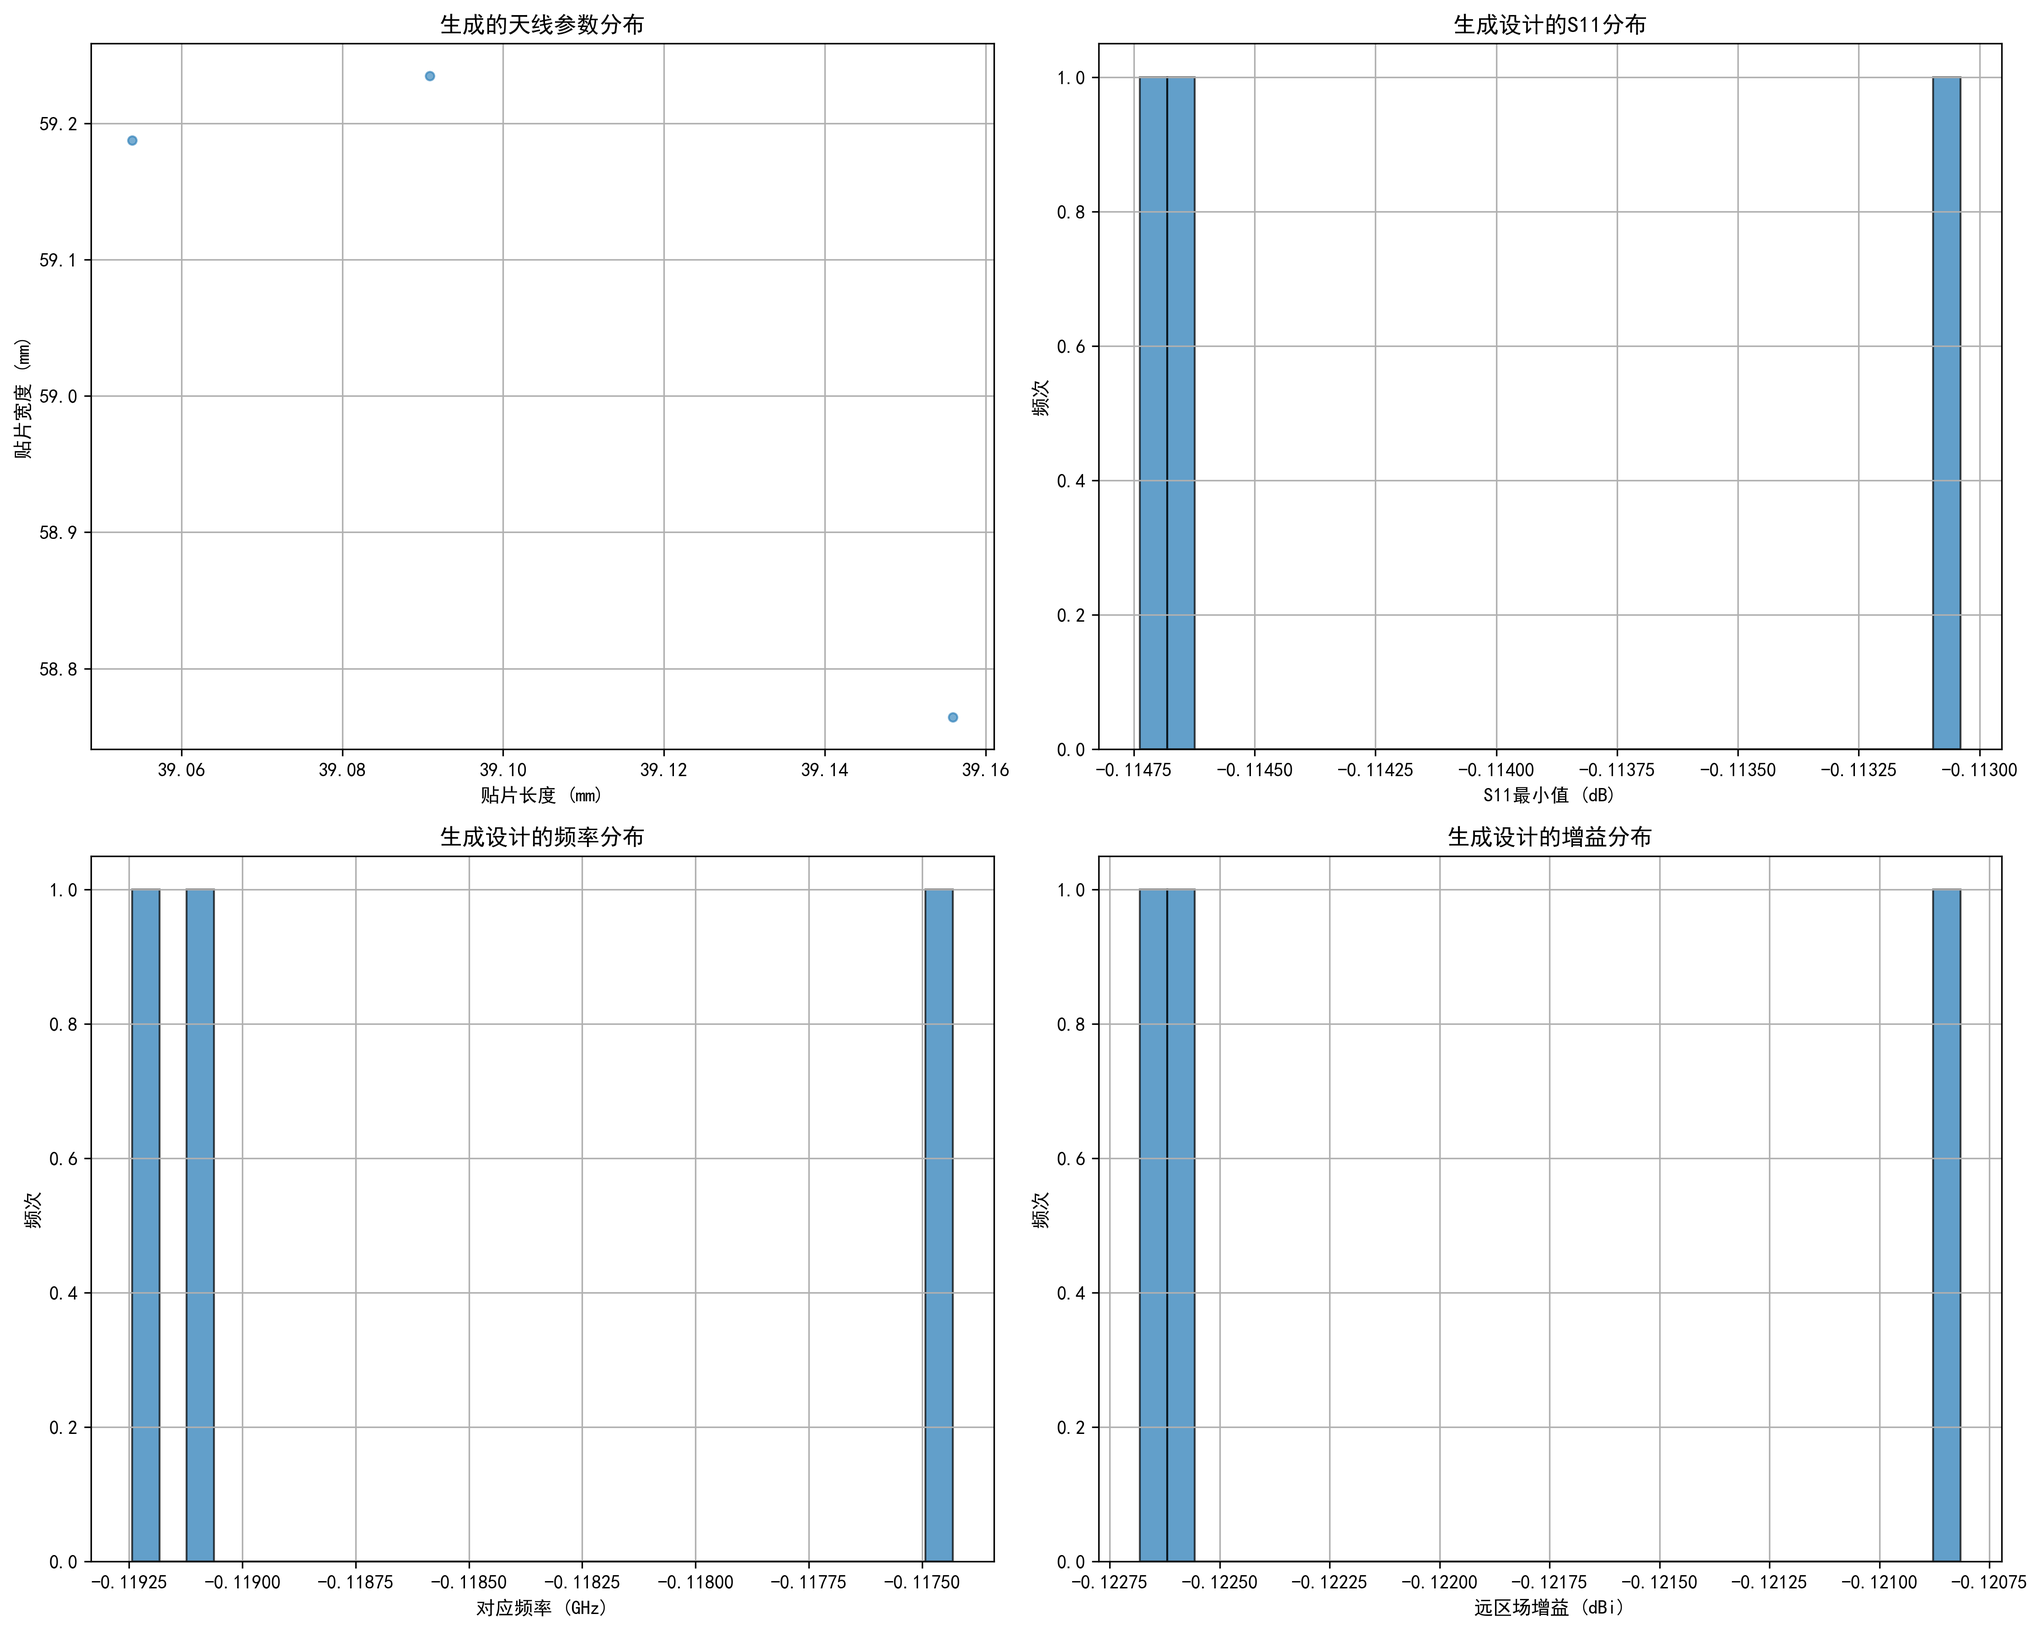
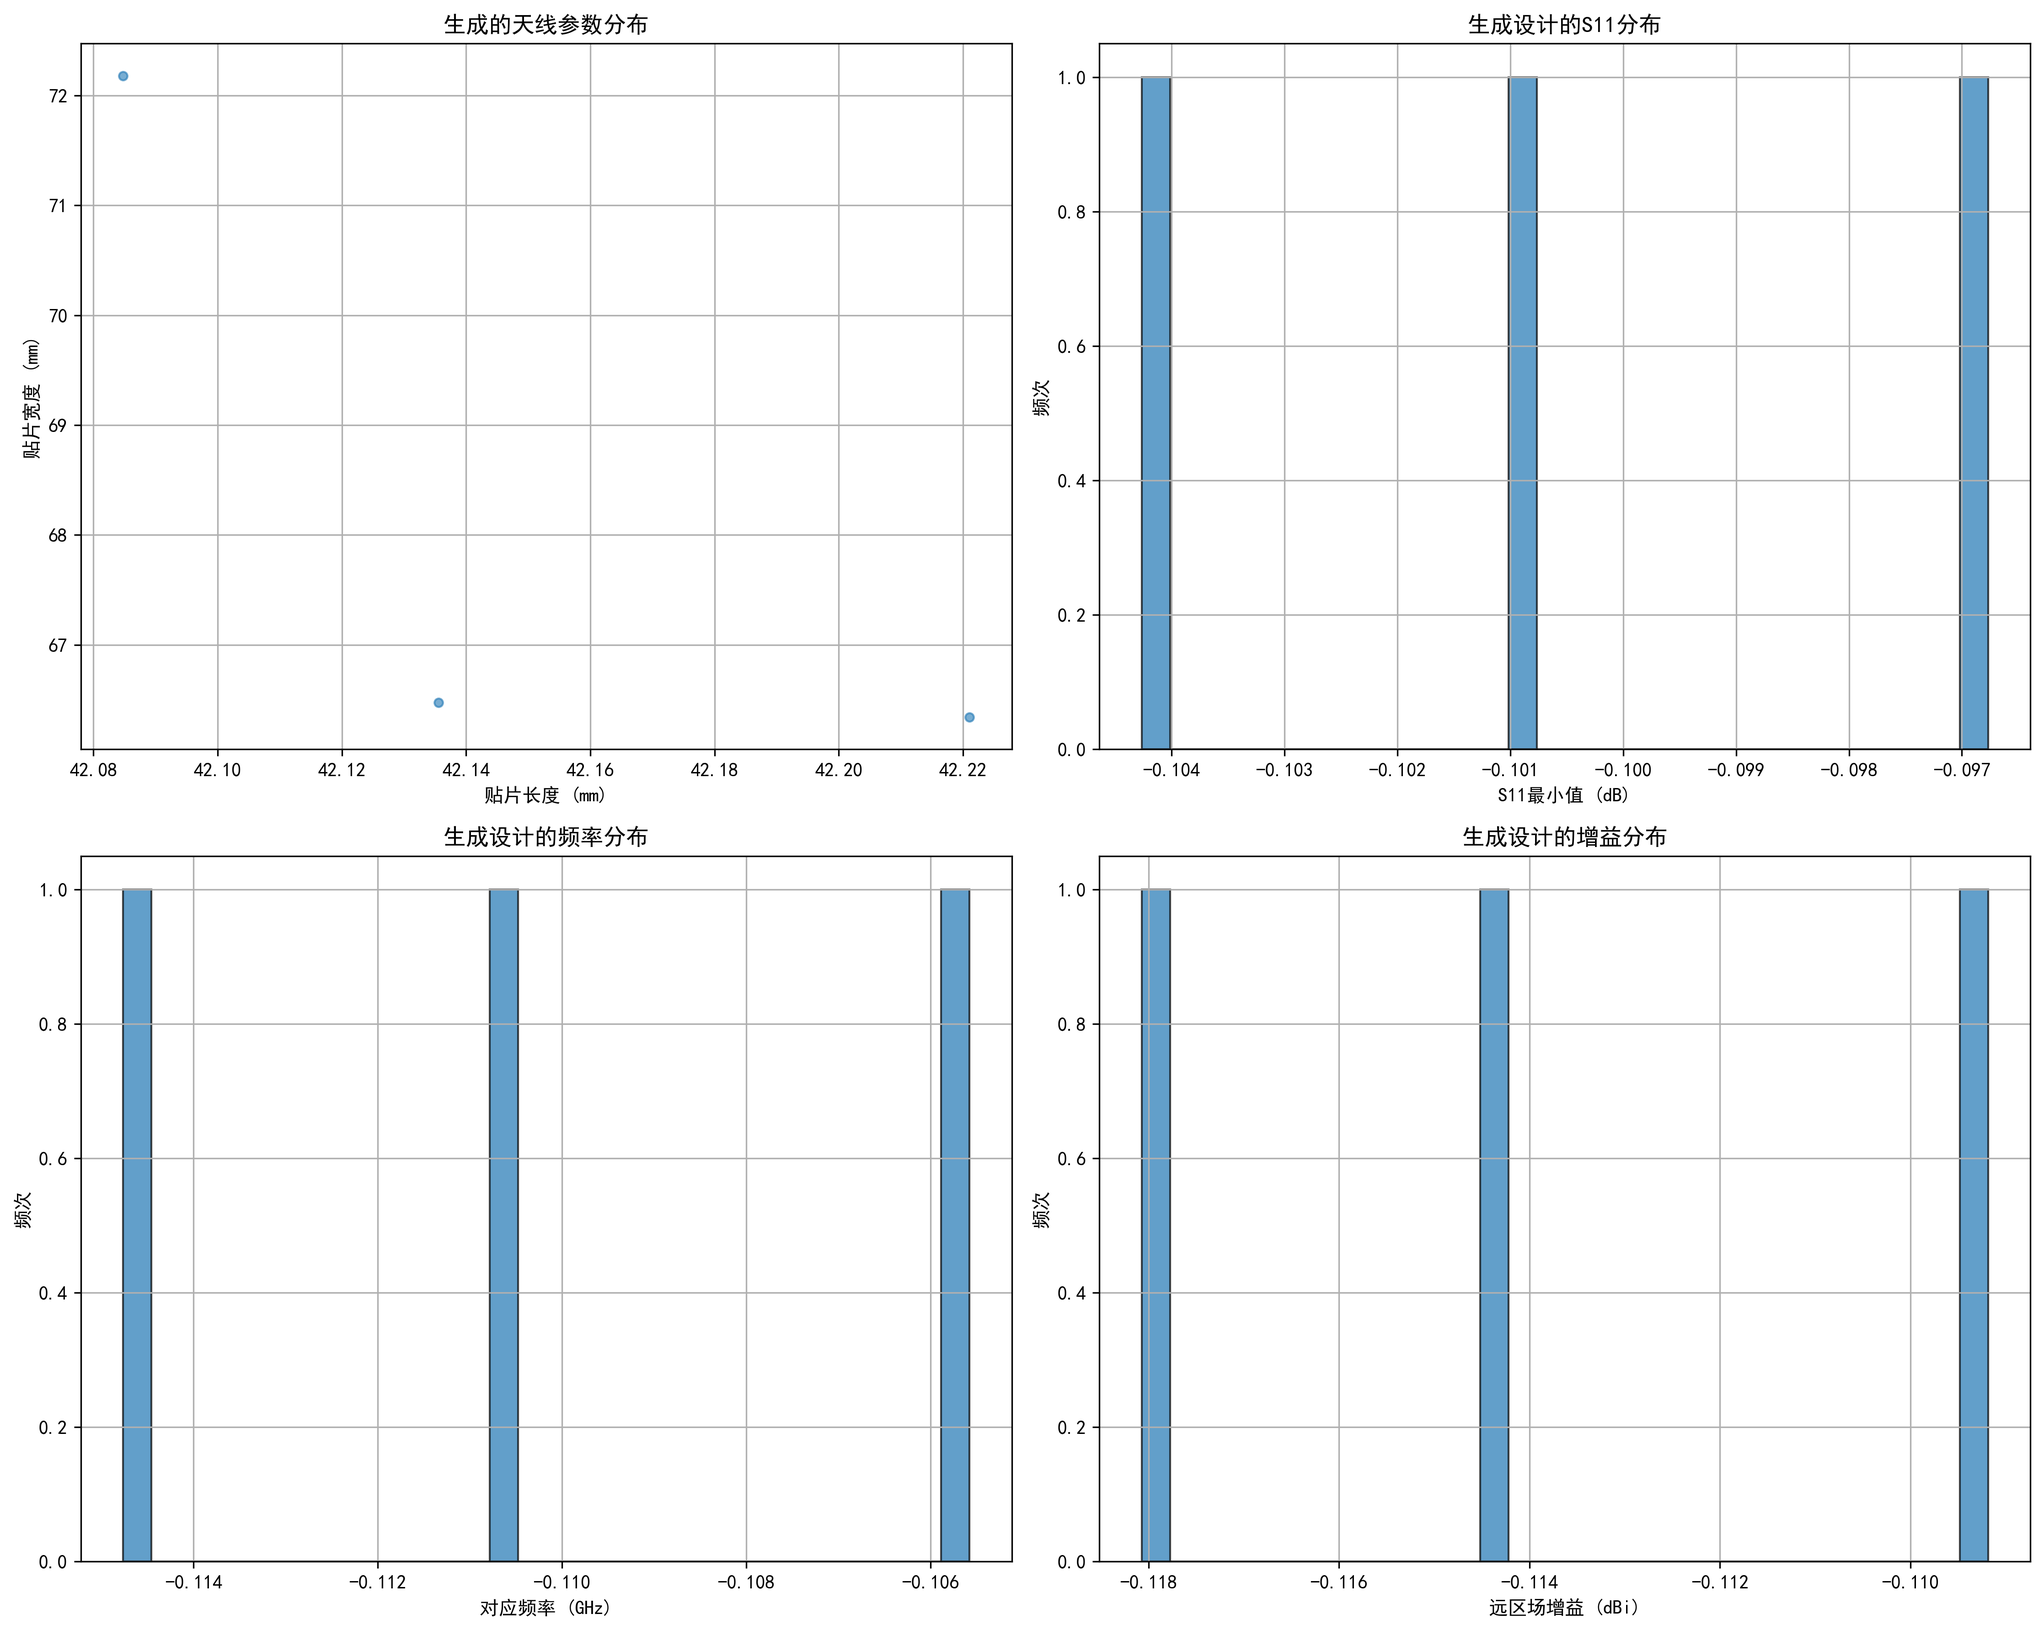
增加性能评估

diff --git a/performance_error_evalution.py b/performance_error_evalution.py
@@ -1,0 +1,273 @@
+import numpy as np
+import pandas as pd
+import os
+from sklearn.metrics import mean_squared_error, mean_absolute_error
+from skimage.metrics import structural_similarity as ssim
+
+def parse_hfss_s_parameters(data_series):
+    """
+    解析HFSS S参数数据，处理逗号分隔的频率和S参数值
+
+    Args:
+        data_series: 包含S参数数据的pandas Series
+
+    Returns:
+        numpy数组形式的S参数值
+    """
+    try:
+        s_params = []
+        for item in data_series:
+            # 处理字符串类型的逗号分隔数据
+            if isinstance(item, str) and ',' in item:
+                # 分割字符串并取S参数值（通常是第二个值）
+                parts = item.split(',')
+                if len(parts) >= 2:
+                    s_params.append(float(parts[1]))
+                else:
+                    # 如果只有一个值，直接转换
+                    s_params.append(float(parts[0]))
+            # 处理已经是数值类型的数据
+            elif isinstance(item, (int, float)):
+                s_params.append(float(item))
+            # 处理其他情况
+            else:
+                s_params.append(float(str(item)))
+
+        return np.array(s_params)
+    except Exception as e:
+        print(f"解析S参数数据时出错: {e}")
+        # 回退到基本转换方法
+        try:
+            return data_series.astype(float).values
+        except:
+            # 如果仍然失败，尝试逐个元素转换
+            result = []
+            for item in data_series:
+                try:
+                    if isinstance(item, str) and ',' in item:
+                        parts = item.split(',')
+                        result.append(float(parts[1]) if len(parts) >= 2 else float(parts[0]))
+                    else:
+                        result.append(float(item))
+                except:
+                    result.append(0.0)  # 用0.0作为默认值
+            return np.array(result)
+
+
+def evaluate_s_parameters(predicted_s_params, actual_s_params):
+    """
+    评估S参数预测准确性
+
+    Args:
+        predicted_s_params: 预测的S参数
+        actual_s_params: 实际的S参数
+
+    Returns:
+        dict: 包含各种评估指标的字典
+    """
+    if predicted_s_params is None or actual_s_params is None:
+        return {}
+
+    try:
+        # 确保长度一致
+        min_len = min(len(predicted_s_params), len(actual_s_params))
+        if min_len <= 0:
+            return {}
+
+        pred_s_trimmed = predicted_s_params[:min_len]
+        actual_s_trimmed = actual_s_params[:min_len]
+
+        # 计算各种误差指标
+        mse = mean_squared_error(actual_s_trimmed, pred_s_trimmed)
+        rmse = np.sqrt(mse)
+        mae = mean_absolute_error(actual_s_trimmed, pred_s_trimmed)
+
+        # 计算平均相对误差
+        nonzero_mask = actual_s_trimmed != 0
+        if np.sum(nonzero_mask) > 0:
+            mape = np.mean(np.abs((actual_s_trimmed[nonzero_mask] - pred_s_trimmed[nonzero_mask]) /
+                                 actual_s_trimmed[nonzero_mask])) * 100
+        else:
+            mape = 0
+
+        # 计算SSIM（需要reshape为2D）
+        results = {
+            'mse': mse,
+            'rmse': rmse,
+            'mae': mae,
+            'mape': mape
+        }
+
+        try:
+            size = int(np.sqrt(min_len))
+            if size > 0 and size*size <= min_len:
+                pred_2d = pred_s_trimmed[:size*size].reshape(size, size)
+                actual_2d = actual_s_trimmed[:size*size].reshape(size, size)
+
+                # 归一化到0-1范围
+                pred_min, pred_max = np.min(pred_2d), np.max(pred_2d)
+                actual_min, actual_max = np.min(actual_2d), np.max(actual_2d)
+
+                if pred_max > pred_min and actual_max > actual_min:
+                    pred_norm = (pred_2d - pred_min) / (pred_max - pred_min)
+                    actual_norm = (actual_2d - actual_min) / (actual_max - actual_min)
+
+                    # 计算SSIM
+                    ssim_value = ssim(pred_norm, actual_norm, data_range=1.0)
+                    results['ssim'] = ssim_value
+        except Exception as e:
+            print(f"  S参数SSIM计算警告: {e}")
+
+        return results
+    except Exception as e:
+        print(f"S参数评估出错: {e}")
+        return {}
+
+def evaluate_far_field_pattern(predicted_far_field, actual_far_field):
+    """
+    评估远区场方向图预测准确性
+
+    Args:
+        predicted_far_field: 预测的远区场数据
+        actual_far_field: 实际的远区场数据
+
+    Returns:
+        dict: 包含各种评估指标的字典
+    """
+    if predicted_far_field is None or actual_far_field is None:
+        return {}
+
+    try:
+        # 确保长度一致
+        min_len = min(len(predicted_far_field), len(actual_far_field))
+        if min_len <= 0:
+            return {}
+
+        pred_ff_trimmed = predicted_far_field[:min_len]
+        actual_ff_trimmed = actual_far_field[:min_len]
+
+        # 计算各种误差指标
+        mse = mean_squared_error(actual_ff_trimmed, pred_ff_trimmed)
+        rmse = np.sqrt(mse)
+        mae = mean_absolute_error(actual_ff_trimmed, pred_ff_trimmed)
+
+        # 计算平均相对误差
+        nonzero_mask = actual_ff_trimmed != 0
+        if np.sum(nonzero_mask) > 0:
+            mape = np.mean(np.abs((actual_ff_trimmed[nonzero_mask] - pred_ff_trimmed[nonzero_mask]) /
+                                 actual_ff_trimmed[nonzero_mask])) * 100
+        else:
+            mape = 0
+
+        results = {
+            'mse': mse,
+            'rmse': rmse,
+            'mae': mae,
+            'mape': mape
+        }
+
+        # 计算远区场的SSIM
+        try:
+            # 假设远区场是37x73的网格
+            if min_len >= 37 * 73:
+                pred_ff_2d = pred_ff_trimmed[:37*73].reshape(37, 73)
+                actual_ff_2d = actual_ff_trimmed[:37*73].reshape(37, 73)
+
+                # 归一化到0-1范围
+                pred_ff_min, pred_ff_max = np.min(pred_ff_2d), np.max(pred_ff_2d)
+                actual_ff_min, actual_ff_max = np.min(actual_ff_2d), np.max(actual_ff_2d)
+
+                if pred_ff_max > pred_ff_min and actual_ff_max > actual_ff_min:
+                    pred_ff_norm = (pred_ff_2d - pred_ff_min) / (pred_ff_max - pred_ff_min)
+                    actual_ff_norm = (actual_ff_2d - actual_ff_min) / (actual_ff_max - actual_ff_min)
+
+                    # 计算SSIM
+                    ssim_value = ssim(pred_ff_norm, actual_ff_norm, data_range=1.0)
+                    results['ssim'] = ssim_value
+        except Exception as e:
+            print(f"  远区场SSIM计算警告: {e}")
+
+        return results
+    except Exception as e:
+        print(f"远区场评估出错: {e}")
+        return {}
+
+def compare_predictions_with_ground_truth(predicted_s_params_file, actual_s_params_file,
+                                       predicted_far_field_file, actual_far_field_file):
+    """
+    比较预测结果与真实数据
+
+    Args:
+        predicted_s_params_file: 预测的S参数文件路径
+        actual_s_params_file: 实际的S参数文件路径
+        predicted_far_field_file: 预测的远区场文件路径
+        actual_far_field_file: 实际的远区场文件路径
+
+    Returns:
+        dict: 包含所有评估结果的字典
+    """
+    results = {}
+
+    # 读取并比较S参数
+    try:
+        if os.path.exists(predicted_s_params_file) and os.path.exists(actual_s_params_file):
+            # 读取预测的S参数
+            pred_s_df = pd.read_csv(predicted_s_params_file)
+            # 假设S参数在第二列
+            if pred_s_df.shape[1] >= 2:
+                predicted_s_params = pred_s_df.iloc[:, 1].values
+            else:
+                predicted_s_params = pred_s_df.iloc[:, 0].values
+
+            # 读取实际的S参数
+            actual_s_df = pd.read_csv(actual_s_params_file, skiprows=1, sep='\t')
+            if actual_s_df.shape[1] >= 2:
+                actual_s_params_raw = actual_s_df.iloc[:, 1]
+            else:
+                actual_s_params_raw = actual_s_df.iloc[:, 0]
+
+            # 解析实际S参数数据
+            actual_s_params = parse_hfss_s_parameters(actual_s_params_raw)
+
+            # 评估S参数
+            s_params_eval = evaluate_s_parameters(predicted_s_params, actual_s_params)
+            results['s_parameters'] = s_params_eval
+
+            print("📈 S参数评估结果:")
+            for metric, value in s_params_eval.items():
+                if metric == 'mape':
+                    print(f"   {metric.upper()}: {value:.2f}%")
+                elif metric == 'ssim':
+                    print(f"   {metric.upper()}: {value:.4f}")
+                else:
+                    print(f"   {metric.upper()}: {value:.6f}")
+    except Exception as e:
+        print(f"S参数文件读取或评估出错: {e}")
+
+    # 读取并比较远区场数据
+    try:
+        if os.path.exists(predicted_far_field_file) and os.path.exists(actual_far_field_file):
+            # 读取预测的远区场数据
+            pred_ff_df = pd.read_csv(predicted_far_field_file)
+            predicted_far_field = pred_ff_df['Gain_dB'].values if 'Gain_dB' in pred_ff_df.columns else pred_ff_df.values.flatten()
+
+            # 读取实际的远区场数据
+            actual_ff_df = pd.read_csv(actual_far_field_file)
+            actual_far_field = actual_ff_df['Gain_dB'].values if 'Gain_dB' in actual_ff_df.columns else actual_ff_df.values.flatten()
+
+            # 评估远区场
+            far_field_eval = evaluate_far_field_pattern(predicted_far_field, actual_far_field)
+            results['far_field'] = far_field_eval
+
+            print("📊 远区场评估结果:")
+            for metric, value in far_field_eval.items():
+                if metric == 'mape':
+                    print(f"   {metric.upper()}: {value:.2f}%")
+                elif metric == 'ssim':
+                    print(f"   {metric.upper()}: {value:.4f}")
+                else:
+                    print(f"   {metric.upper()}: {value:.6f}")
+    except Exception as e:
+        print(f"远区场文件读取或评估出错: {e}")
+
+    return results

diff --git a/use_model.py b/use_model.py
@@ -13,6 +13,7 @@ from matplotlib import pyplot as plt
 import plotly.graph_objects as go
 import plotly.offline as pyo
 from scipy.interpolate import griddata
+from performance_error_evalution import *
 
 # 添加当前目录到系统路径
 sys.path.append(os.path.dirname(os.path.abspath(__file__)))
@@ -826,6 +827,57 @@ def use_multi_output_model(model_path, patch_length, patch_width):
                     predict_s11_curve=s_params_pred
                 )
 
+                # 如果有预测结果和实际结果，进行评估
+                if success and output_file and output_file_farfield and s_params_pred is not None:
+                    try:
+                        # 读取HFSS的实际数据
+                        print(f"  读取HFSS的实际数据: {output_file}")
+                        actual_s_params_df = pd.read_csv(output_file)
+                        if 'dB(S(ground_T1,ground_T1)) []' in actual_s_params_df.columns:
+                            actual_s_params = actual_s_params_df['dB(S(ground_T1,ground_T1)) []'].values
+                        else:
+                            actual_s_rameters = actual_s_params_df.values.flatten()
+
+                        # 读取实际的远区场数据
+                        print(f"  读取HFSS的实际远区场数据: {output_file_farfield}")
+                        actual_far_field_df = pd.read_csv(output_file_farfield)
+                        if 'Gain_dB' in actual_far_field_df.columns:
+                            actual_far_field = actual_far_field_df['Gain_dB'].values
+                        else:
+                            actual_far_rametersfield = actual_far_field_df.values.flatten()
+
+                        # 评估S参数
+
+                        s_params_metrics = evaluate_s_parameters(s_params_pred, actual_s_params)
+                        print("📈 S参数评估结果:")
+                        for metric, value in s_params_metrics.items():
+                            if metric == 'mape':
+                                print(f"   {metric.upper()}: {value:.2f}%")
+                            elif metric == 'ssim':
+                                print(f"   {metric.upper()}: {value:.4f}")
+                            else:
+                                print(f"   {metric.upper()}: {value:.6f}")
+
+                        # 评估远区场
+                        far_field_metrics = evaluate_far_field_pattern(far_field_pred, actual_far_field)
+                        print("📊 远区场评估结果:")
+                        for metric, value in far_field_metrics.items():
+                            if metric == 'mape':
+                                print(f"   {metric.upper()}: {value:.2f}%")
+                            elif metric == 'ssim':
+                                print(f"   {metric.upper()}: {value:.4f}")
+                            else:
+                                print(f"   {metric.upper()}: {value:.6f}")
+
+                        # 将评估结果添加到返回结果中
+                        result['evaluation'] = {
+                            's_parameters': s_params_metrics,
+                            'far_field': far_field_metrics
+                        }
+
+                    except Exception as e:
+                        print(f"评估过程出错: {e}")
+
             else:
                 print(f"  HFSS计算失败")
                 hfss_results.append({
@@ -1509,13 +1561,13 @@ if __name__ == "__main__":
     else:
         print(f"❌ 逆向设计失败: {inverse_result.get('error', '未知错误')}")
 
-    print("\n" + "=" * 70)
+    # print("\n" + "=" * 70)
 
-    print("\n" + "=" * 70)
+    # print("\n" + "=" * 70)
     # model_info_path = 'models/multi_output_trained_model.npy'
     # result = use_multi_output_model(model_info_path, 39, 48.4)
     # result = use_multi_output_model(model_info_path, 35, 50)
-    print("\n" + "=" * 70)
+    # print("\n" + "=" * 70)
 
     print("\n" + "=" * 70)
     print("模型使用完成！")
